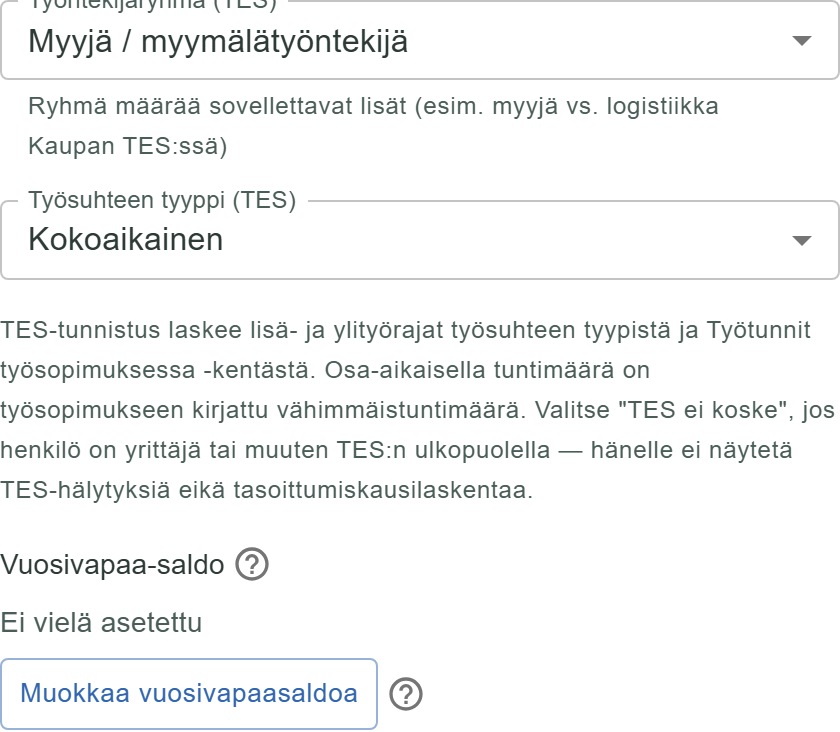
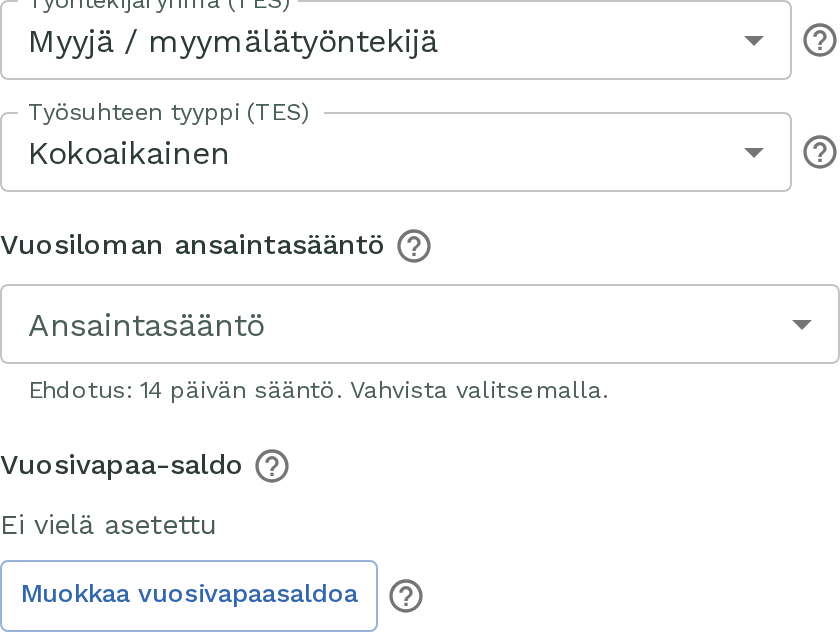
Update blog post images and content for employee management section. Replaced several images to enhance visual clarity and updated alt text for improved accessibility and accuracy regarding employee types and vacation rules.

diff --git a/src/pages/posts/tyontekijan_tes_tiedot.md b/src/pages/posts/tyontekijan_tes_tiedot.md
@@ -6,7 +6,7 @@ description: 'TES-laskenta tarvitsee jokaiselta työntekijältä työsuhteen tyy
 author: 'Antti Tuomola'
 image:
     url: '/blogPostImages/tyontekijan-tes-tiedot/tyosuhde-tes-kentat.png'
-    alt: 'Työntekijän muokkausnäkymän TES-kentät: työsuhteen tyyppi ja ohjeteksti lisä- ja ylityörajoista.'
+    alt: 'Työntekijän muokkausnäkymän TES-kentät: työsuhteen tyyppi Osa-aikainen, vuosiloman ansaintasääntö ja vuosivapaasaldo.'
 tags: ['TES', 'työntekijät', 'opas', 'uudet ominaisuudet']
 ---
 
@@ -59,7 +59,7 @@ ylityörajat lasketaan eri tavalla:
 
 <img src="/blogPostImages/tyontekijan-tes-tiedot/tyosuhde-tyyppi-valikko.png" alt="Työntekijän muokkaus: Työsuhteen tyyppi (TES) -valikko auki, vaihtoehtoina Ei valittu, Kokoaikainen, Osa-aikainen ja TES ei koske (yrittäjä, tms.)" width="100%" style="max-width: 900px; display: block; margin: 20px auto;" />
 
-<img src="/blogPostImages/tyontekijan-tes-tiedot/tyosuhde-tes-kentat.png" alt="Työsuhde-osion TES-kentät: Työsuhteen tyyppi (TES) -valinta asennossa Osa-aikainen ja ohjeteksti, joka kertoo rajojen laskennan" width="100%" style="max-width: 700px; display: block; margin: 20px auto;" />
+<img src="/blogPostImages/tyontekijan-tes-tiedot/tyosuhde-tes-kentat.png" alt="Työsuhde-osion TES-kentät: Työsuhteen tyyppi (TES) asennossa Osa-aikainen, vuosiloman ansaintasääntö ja vuosivapaasaldo" width="100%" style="max-width: 700px; display: block; margin: 20px auto;" />
 
 Työsuhteen tyyppi vaikuttaa myös siihen, ketä
 [tasoittumisjärjestelmä](/posts/tasoittumisjarjestelma_ravintola-alalla)
